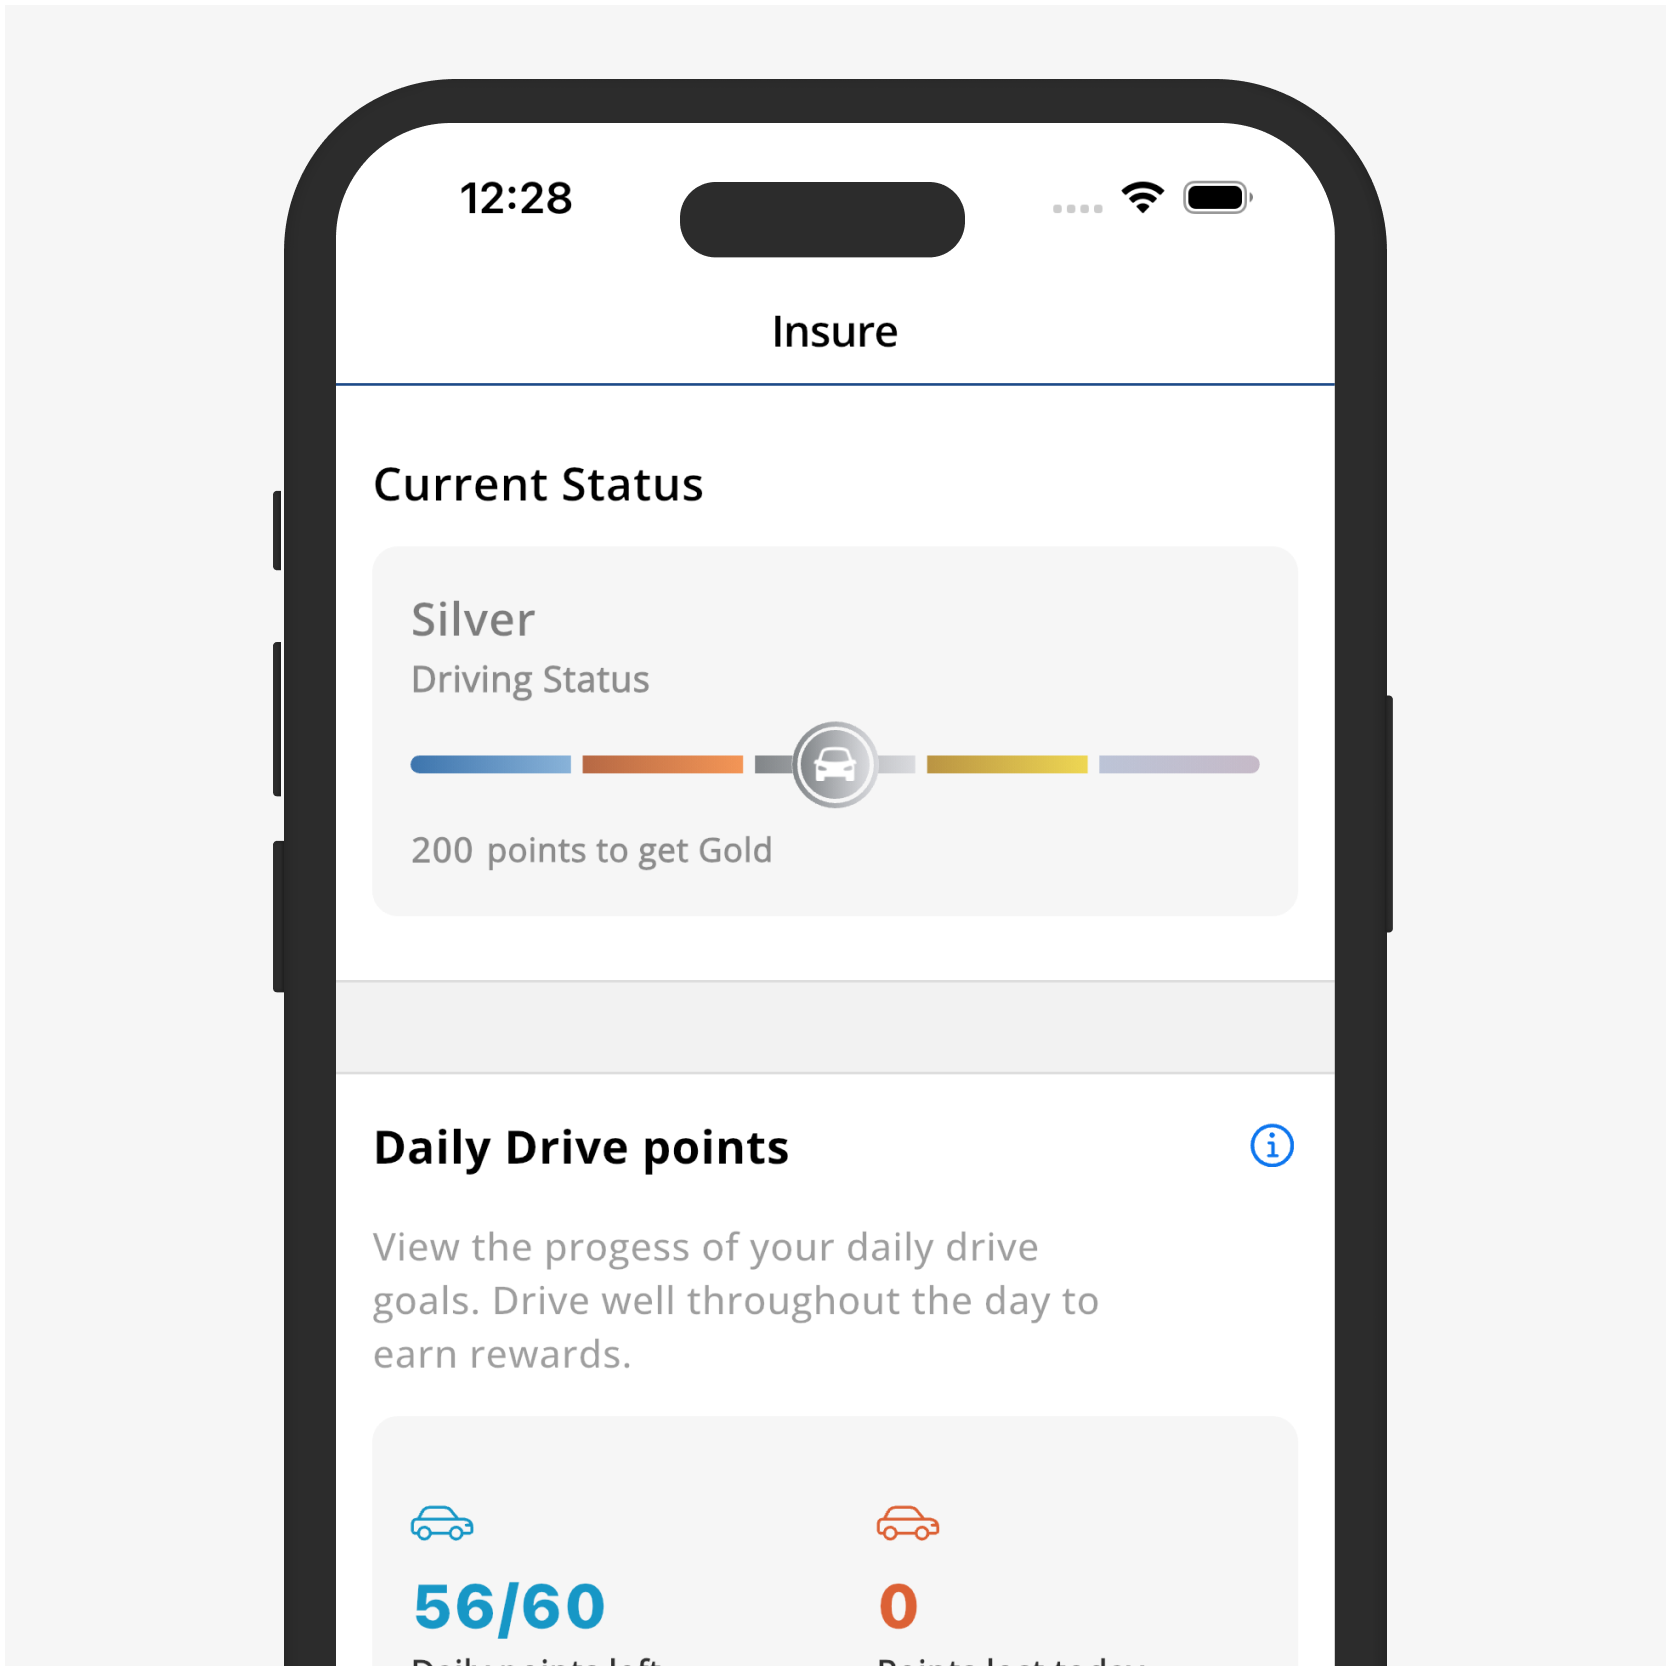
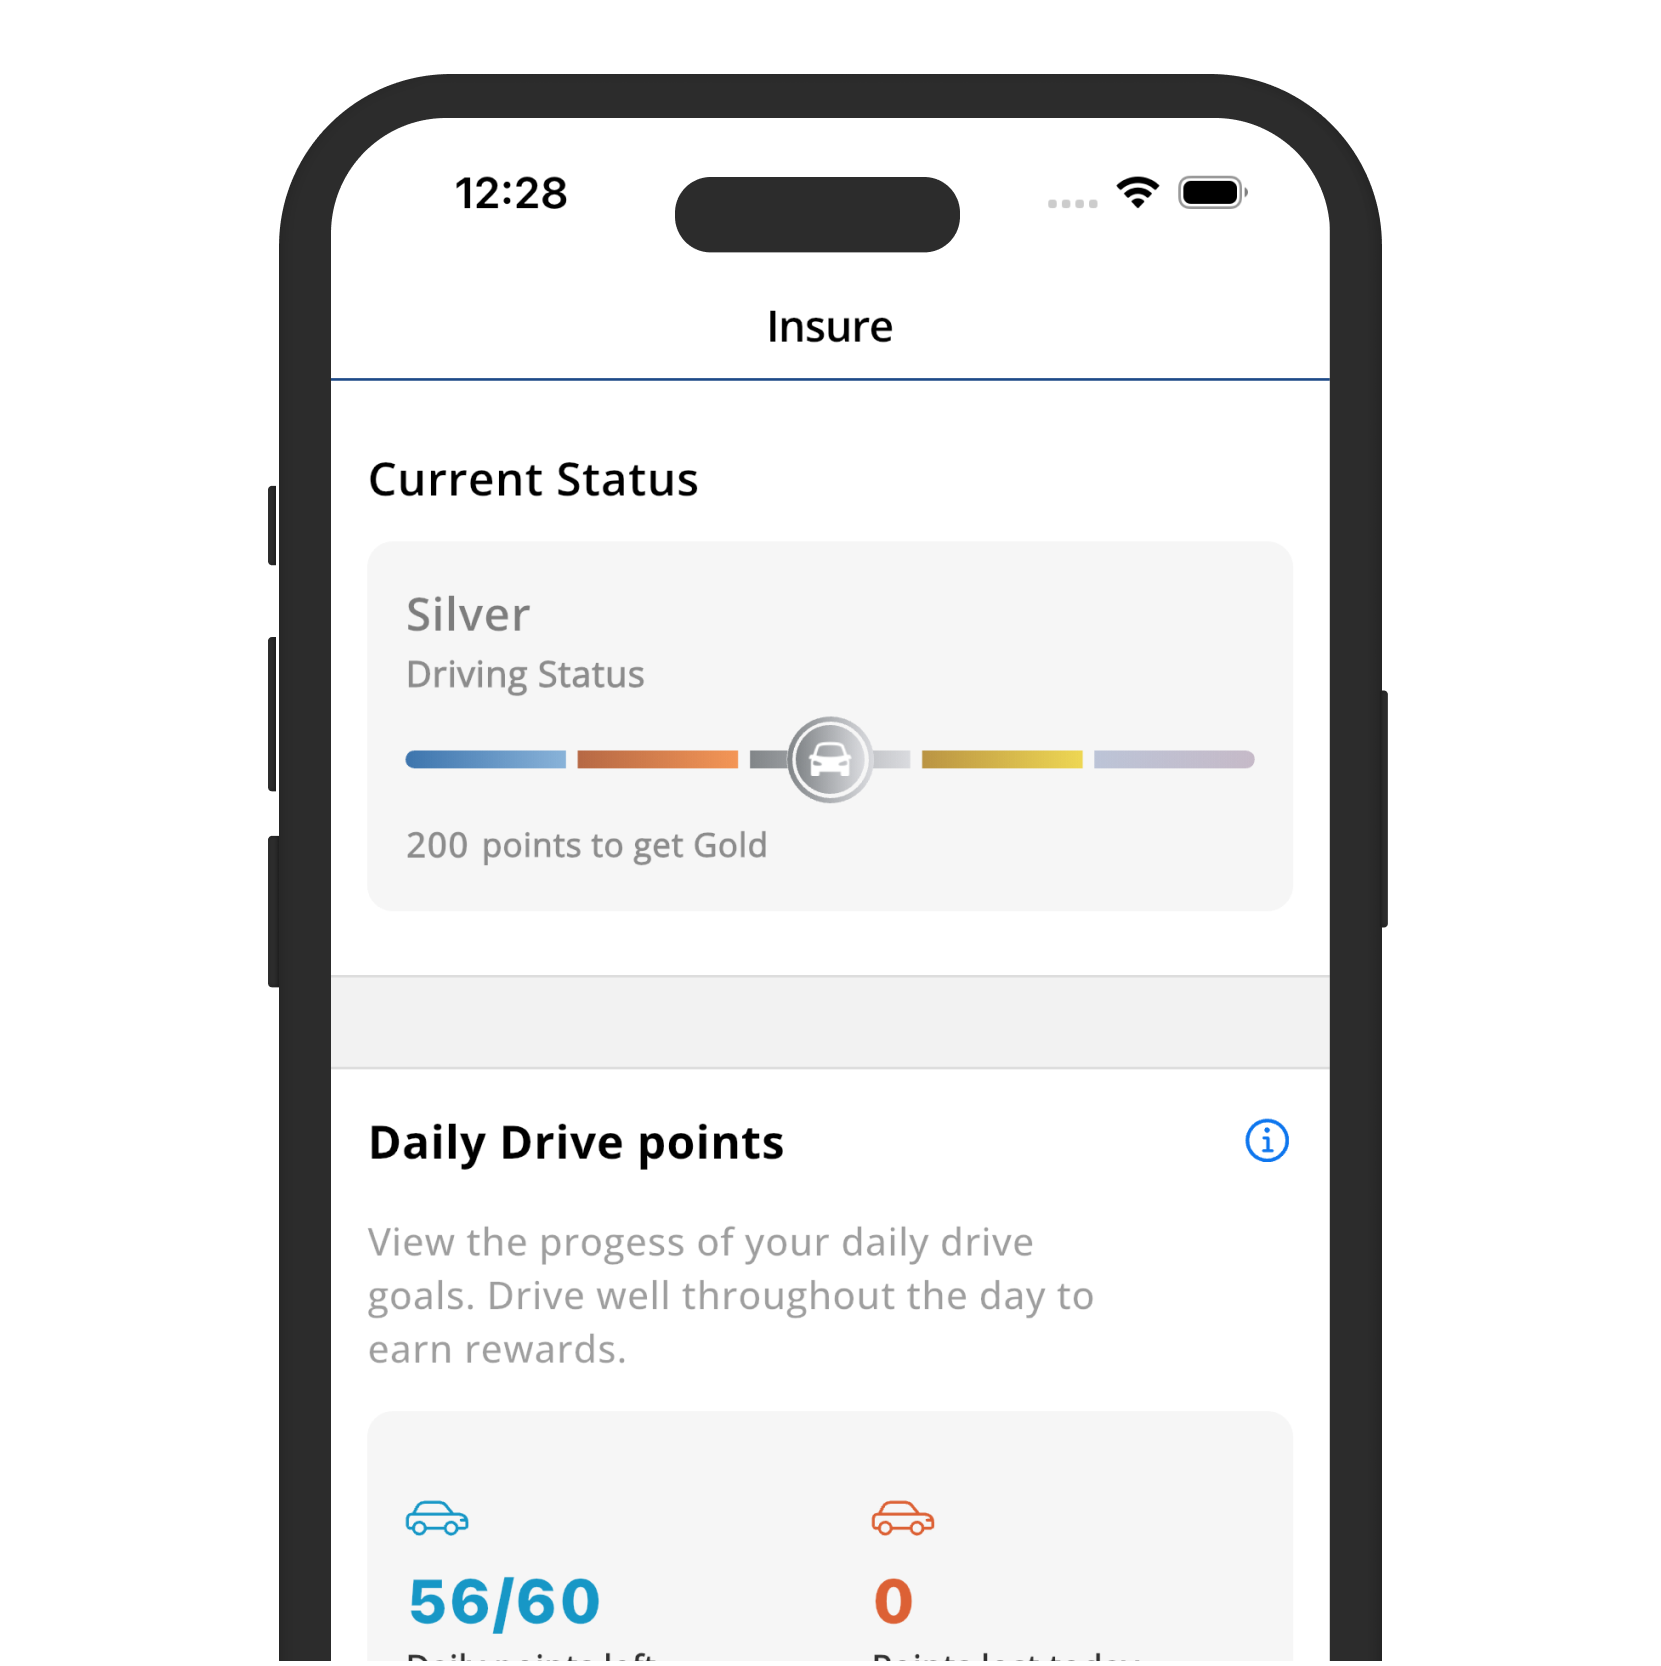
Change fonts

diff --git a/script.js b/script.js
@@ -67,115 +67,9 @@ document.addEventListener('DOMContentLoaded', () => {
     });
 });
 
-
-function openVideo(videoUrl) {
-    const modals = document.querySelectorAll('.video-modal');
-    modals.forEach(modal => {
-        modal.style.display = 'none'; 
-    });
-
-    const modal = document.getElementById("video-modal");
-    modal.style.display = 'flex';
-    modal.classList.add('show');
-
-
-    const videoPlayer = document.getElementById('video-player');
-    const videoSource = document.getElementById('video-source');
-
-    if (videoUrl === 'assets/images/ai/screen1.mp4') {
-        videoPlayer.style.width = '100%';
-    } else {
-        videoPlayer.style.width = '100%'; 
-    }
-    
-    videoSource.src = videoUrl;
-    videoPlayer.load();
-
-    document.body.classList.add('modal-open');
-}
-
-
-function closeVideo() {
-    const modal = document.getElementById("video-modal");
-    modal.classList.remove('show');
-    
-    setTimeout(() => {
-        modal.style.display = 'none'; 
-    }, 500);  
-
-    document.body.classList.remove('modal-open');
-}
-
-
-
-window.onclick = function(event) {
-    const modal = document.getElementById("video-modal");
-    if (event.target === modal) {
-        modal.style.display = "none"; 
-    }
-};
-
-
-window.onscroll = function() {
-    const modal = document.getElementById("video-modal");
-    modal.style.display = "none"; 
-};
-
-closeVideo();
-
-
-
-let currentImageIndex = 1; // Start with the first image
-let totalImages = 0; // Total images in the folder
-let folderName = ''; // Folder name for dynamic path
-
-// Open Carousel
-function openCarousel(folder, count) {
-    folderName = folder;
-    totalImages = count;
-
-    // Show the modal
-    const modal = document.getElementById('carousel-modal');
-    modal.style.display = 'flex';
-
-    // Show the first image
-    currentImageIndex = 1;
-    updateCarouselImage();
-}
-
-// Close Carousel
-function closeCarousel() {
-    closeVideo();
-    const modal = document.getElementById('carousel-modal');
-    modal.style.display = 'none';
-}
-
-// Update Carousel Image
-function updateCarouselImage() {
-    const imageElement = document.getElementById('carousel-image');
-    imageElement.src = `assets/images/${folderName}/screen${currentImageIndex}.png`;
-}
-
-// Show Previous Image
-function previousImage() {
-    if (currentImageIndex > 1) {
-        currentImageIndex--;
-    } else {
-        currentImageIndex = totalImages; // Loop to the last image
-    }
-    updateCarouselImage();
-}
-
-// Show Next Image
-function nextImage() {
-    if (currentImageIndex < totalImages) {
-        currentImageIndex++;
-    } else {
-        currentImageIndex = 1; // Loop to the first image
-    }
-    updateCarouselImage();
-}
-
+document.getElementById('theme-toggle').addEventListener('click', function () {
+    document.body.classList.toggle('dark-theme');
+});
 
 
 

diff --git a/projects.html b/projects.html
@@ -10,7 +10,7 @@
             font-family: Arial, sans-serif;
             margin: 0;
             padding-top: 100px;
-            background-color: #111;
+            background-color: #000;
             color: white;
         }
 
@@ -28,17 +28,20 @@
 
         .image-grid {
             display: grid;
-            grid-template-columns: repeat(3, 1fr);
-            gap: 10px;
-            padding: 10px;
+            grid-template-columns: repeat(2, 1fr);
+            /* gap: 10px; */
+            row-gap: 20px;
+            /* padding: 10px; */
+            margin: 0;
+            padding: 0;
             justify-items: center; 
         }
 
         .image-grid img {
-            width: 100%; 
+            width: 80%; 
             max-width: 400px; 
             height: auto;
-            border-radius: 8px;
+            border-radius: 24px;
             box-shadow: 0 4px 6px rgba(0, 0, 0, 0.3);
             transition: transform 0.2s ease;
             animation: fadeInUp 1s ease-in-out;
@@ -75,16 +78,20 @@
 
         #project-title {
             margin: 0;
-            font-family: 'Playfair Display', serif;
+            font-family: 'Space Grotesk', sans-serif;
             font-size: 40px;
             font-weight: 400;
-            text-align: left;
+            text-align: center;
             line-height: 1.3;
             color: var(--text-color);
             animation: fadeInUp 1s ease-in-out;
             transition: color 0.4s ease;
             width: 100%;
             max-width: 800px;
+        }
+
+        #description {
+            text-align: center;
         }
 
         @media (max-width: 480px) {
@@ -99,7 +106,7 @@
 
         .video-player {
             width: 350px; /* Default width */
-            border-radius: 8px;
+            border-radius: 24px;
             box-shadow: 0 4px 6px rgba(0, 0, 0, 0.3);
             animation: fadeInUp 1s ease-in-out;
         }
@@ -117,7 +124,7 @@
 </head>
 <body>
     <div class="container">
-        <h1 id="project-title">Project Images</h1>
+        <h1 id="project-title" style="font-size: 24px">Project Images</h1>
         <p id="description"></p>
 
         <br>

diff --git a/style.css b/style.css
@@ -50,7 +50,7 @@ body {
 
 #title {
     margin: 25px 20px 10px 0;
-    font-family: 'Playfair Display', serif;
+    font-family: 'Space Grotesk', sans-serif;
     font-size: 40px;
     font-weight: 400;
     text-align: left;
@@ -63,6 +63,7 @@ body {
 }
 
 #subtitle {
+    line-height: 1.8;
     animation: fadeInUp 1s ease-in-out;
 }
 
@@ -82,13 +83,14 @@ h2 {
     animation: fadeInUp 1s ease-in-out;
     transition: color 0.4s ease;
     margin-top: 150px;
+    font-size: 28px;
 }
 
 p {
     font-family: 'Space Grotesk', sans-serif;
-    font-size: 14px;
+    font-size: 15px;
     font-weight: 300;
-    line-height: 1.5;
+    line-height: 1.8;
     color: var(--secondary-text-color);
     animation: fadeInUp 1s ease-in-out;
     text-align: left;
@@ -103,9 +105,9 @@ p {
 }
 
 .skill {
-    padding: 5px 10px;
+    padding: 10px 15px;
     font-family: 'Space Grotesk', sans-serif;
-    font-size: 12px;
+    font-size: 13px;
     font-weight: 300;
     text-align: center;
     color: var(--secondary-text-color);
@@ -183,7 +185,7 @@ p {
 }
 
 .year p, .description p {
-    font-size: 14px;
+    font-size: 15px;
     transition: color 0.4s ease;
 }
 
@@ -213,8 +215,9 @@ p {
 }
 
 .project-description p {
-    font-size: 14px;
+    font-size: 15px;
     transition: color 0.4s ease;
+    margin: 10px 0;
 }
 
 .project-hidden {
@@ -426,7 +429,7 @@ hr {
     }
 
     p {
-        font-size: 14px;
+        font-size: 15px;
     }
 
     .carousel-container {
@@ -460,7 +463,15 @@ hr {
     }
 
     p {
-        font-size: 13px;
+        font-size: 14px;
+    }
+
+    .project-description p {
+        font-size: 14px;
+    }
+
+    .year p, .description p {
+        font-size: 14px;
     }
 
     .section {

diff --git a/index.html b/index.html
@@ -11,7 +11,7 @@
     <button id="theme-toggle" aria-label="Toggle Dark/Light Theme">🌙</button>
     <div class="about"> 
         <!-- <p>My Portfolio</p> -->
-        <h1 id="title">Backend Software Developer</h1>
+        <h1 id="title">Backend Software<br>Developer</h1>
         <br>
         <p id="subtitle">
             I’m <span class="highlight-text">Ruben Dreyer</span>, a backend developer from
@@ -92,8 +92,8 @@
 
 
 
+        <h2 class="section">My experience</h2>
         <section class="projects">
-            <h2 class="section">Selected work</h2>
             <div class="project-item project-hidden">
                 <!-- <div class="image-container">
                     <img src="assets/images/discovery/preview.png" width="250px" alt="Project Preview" onclick="openCarousel('discovery', 9)" >
